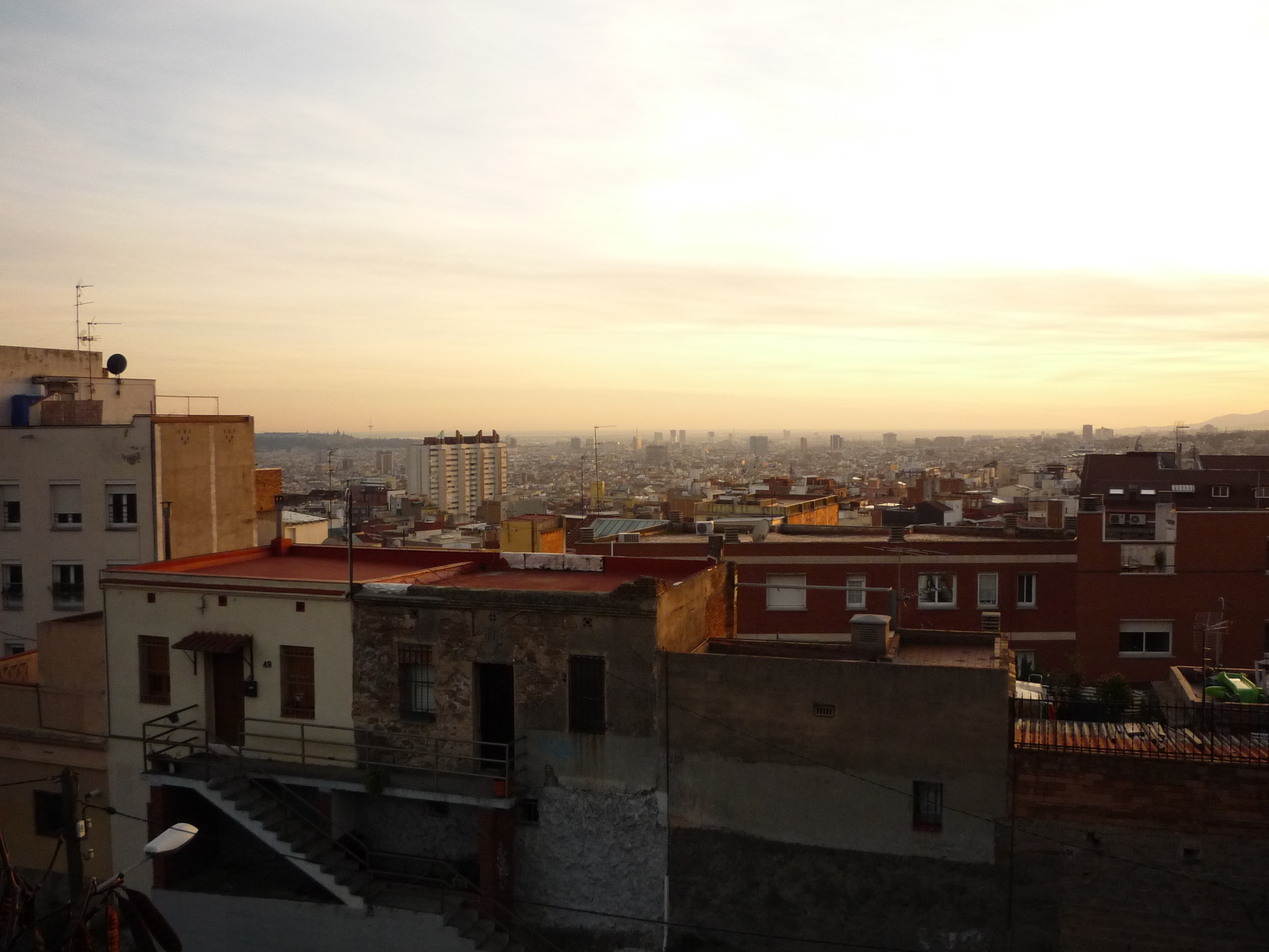
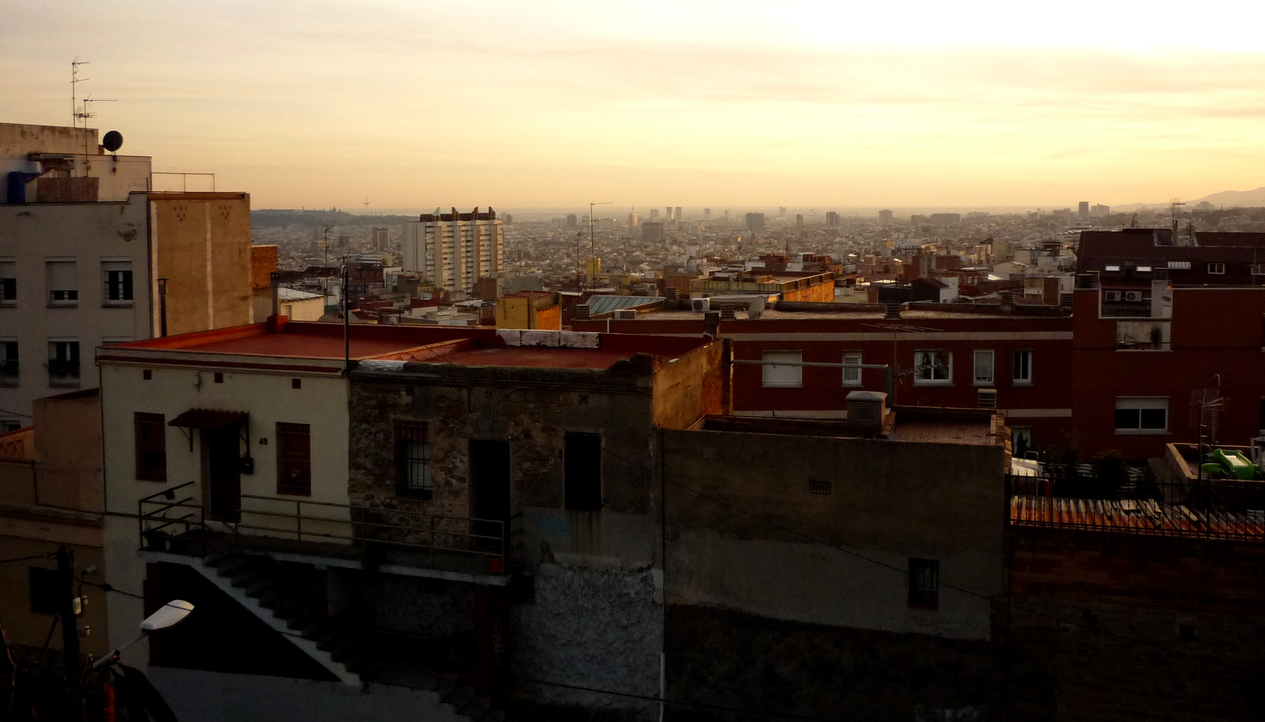
updating cover photo

diff --git a/_site/index.html b/_site/index.html
@@ -72,7 +72,7 @@
 
 
     <!-- Page Header -->
-<header class="intro-header" style="background-image: url('/img/landing.JPG')">
+<header class="intro-header" style="background-image: url('/img/roofs.JPG')">
     <div class="container">
         <div class="row">
             <div class="col-lg-8 col-lg-offset-2 col-md-10 col-md-offset-1">
